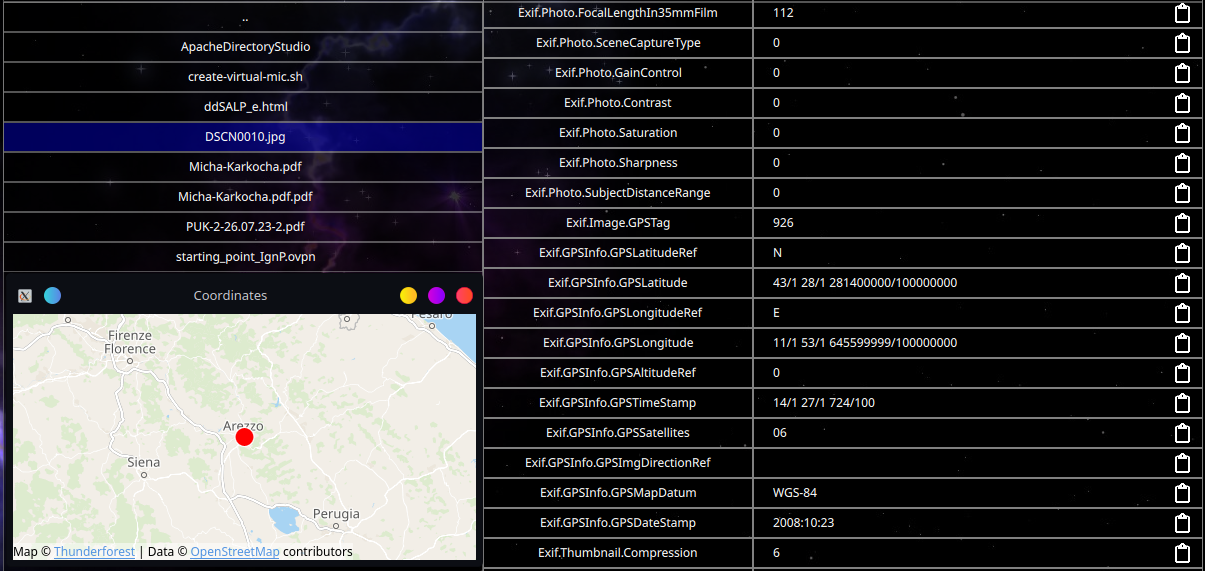
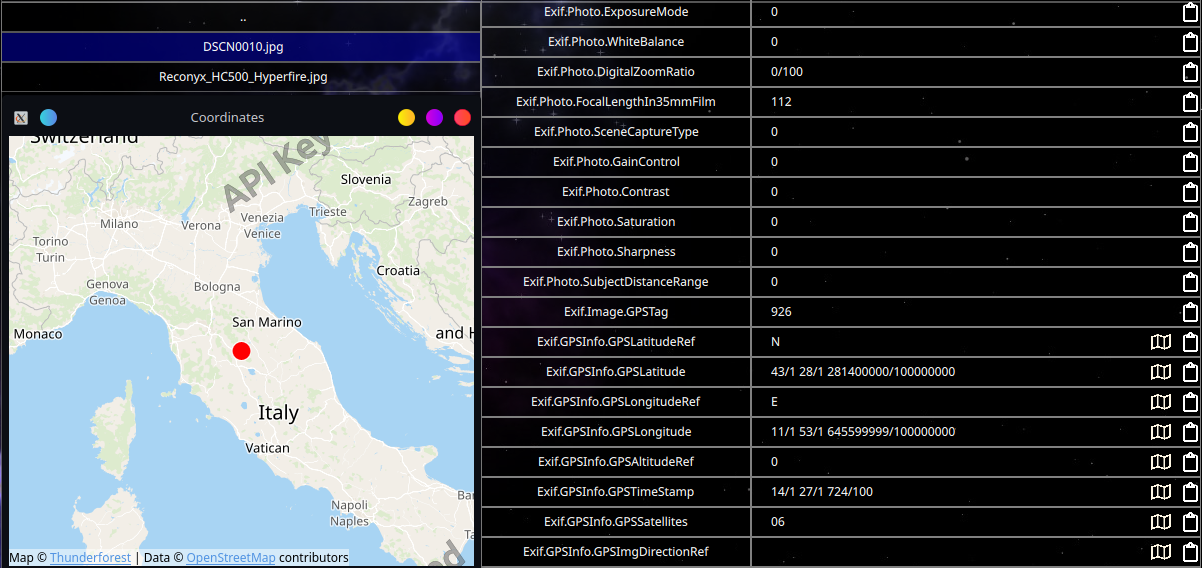
Fixed file changing

diff --git a/content/components/MapButton.qml b/content/components/MapButton.qml
@@ -6,28 +6,34 @@ import QtQuick.Layouts
 Button {
     width: 40
     height: parent.height
-    anchors.left: mapButton.right
-    anchors.right: parent.right
-
-    TextEdit {
-        id: textEdit
-
-        visible: false
-    }
+    anchors.left: flickableElement.right
+    anchors.right: mapButton.right
 
     MouseArea {
         hoverEnabled: true
         anchors.fill: parent
         onClicked: {
-            textEdit.text = value;
-            textEdit.selectAll();
-            textEdit.copy();
+            mapLoader.latitude = metaModel.getCoordinates().x;
+            mapLoader.longitude = metaModel.getCoordinates().y;
+            mapLoader.source = "MetaMap.qml";
         }
         onEntered: {
             copyIcon.opacity = 0.6;
         }
         onExited: {
             copyIcon.opacity = 1;
+        }
+    }
+
+    Loader {
+        id: mapLoader
+
+        property double longitude
+        property double latitude
+
+        onLoaded: {
+            item.longitude = longitude;
+            item.latitude = latitude;
         }
     }
 
@@ -40,7 +46,7 @@ Button {
             id: copyIcon
 
             anchors.centerIn: parent
-            source: "../assets/clipboard-regular.svg"
+            source: "../assets/map-regular.svg"
             width: 20
             height: 20
             fillMode: Image.PreserveAspectFit

diff --git a/content/components/MetaListView.qml b/content/components/MetaListView.qml
@@ -45,7 +45,7 @@ ListView {
                 Flickable {
                     id: flickableElement
 
-                    width: parent.width - 60
+                    width: parent.width - 80
                     height: parent.height
                     contentWidth: textElement.width
                     contentHeight: height
@@ -64,6 +64,12 @@ ListView {
                         anchors.horizontalCenter: parent.horizontalCenter
                     }
 
+                }
+
+                MapButton {
+                    id: mapButton
+
+                    visible: key.startsWith("Exif.GPSInfo")
                 }
 
                 CopyButton {

diff --git a/content/src/controller.cpp b/content/src/controller.cpp
@@ -143,6 +143,7 @@ void Controller::readMeta(const QString &path)
 
     if (fileInfo.exists() && fileInfo.isFile())
     {
+        metaModel->clearItems();
         this->currentFile = path;
     }
 
